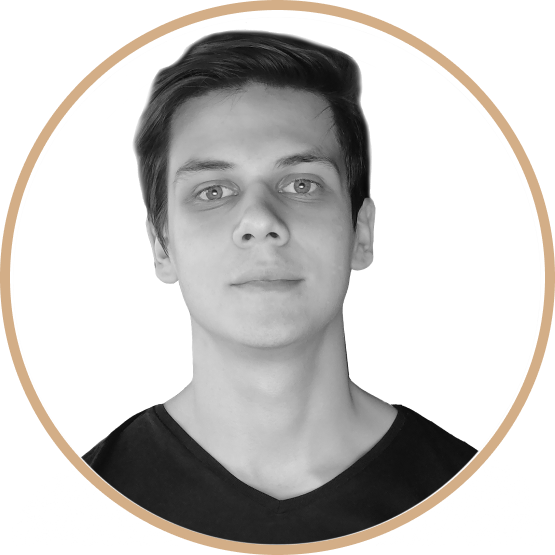
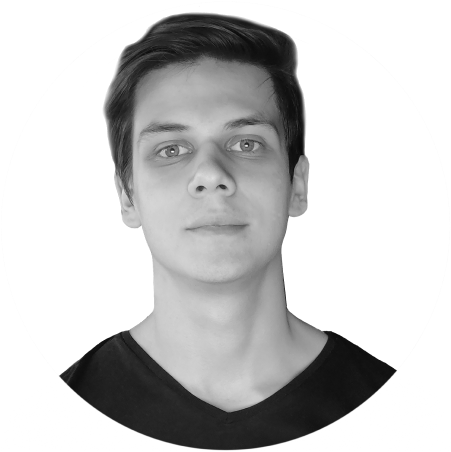
Rm extra images

diff --git a/index.html b/index.html
@@ -17,15 +17,15 @@
 <body>
 
     <nav class="nav flex-container-center align-center">
-        <a href="#about"><img src="img/icons/home.png" alt="about"></a>
-        <a href="#tech"><img src="img/icons/skill.png" alt="tech"></a>
-        <a href="#experience"><img src="img/icons/work.png" alt="work"></a>
-        <a href="#education"><img src="img/icons/book.png" alt="education"></a>
-        <a href="#html"><img src="img/icons/html.png" alt="html" id="html-img"></a>
-        <a href="#js"><img src="img/icons/js.png" alt="js" id="js-img"></a>
-        <a href="#react"><img src="img/icons/react.png" alt="react" id="react-img"></a>
-        <a href="#animation"><img src="img/icons/animation.png" alt="animation" id="animation-img"></a>
-        <a href="#certificate"><img src="img/icons/certificate.png" alt="animation"></a>
+        <a href="#about"><img src="img/icons/nav/home.png" alt="about"></a>
+        <a href="#tech"><img src="img/icons/nav/skill.png" alt="tech"></a>
+        <a href="#experience"><img src="img/icons/nav/work.png" alt="work"></a>
+        <a href="#education"><img src="img/icons/nav/book.png" alt="education"></a>
+        <a href="#html"><img src="img/icons/nav/html.png" alt="html" id="html-img"></a>
+        <a href="#js"><img src="img/icons/nav/js.png" alt="js" id="js-img"></a>
+        <a href="#react"><img src="img/icons/nav/react.png" alt="react" id="react-img"></a>
+        <a href="#animation"><img src="img/icons/nav/animation.png" alt="animation" id="animation-img"></a>
+        <a href="#certificate"><img src="img/icons/nav/certificate.png" alt="animation"></a>
     </nav>
     <div class="nav-burger flex-container">
         <div class="burger-line burger-line1"></div>
@@ -37,7 +37,7 @@
         <div class="grid-container about-wrap">
             <div></div>
             <div class="about-center">
-                <img src="img/avatar/avatar1.png" alt="avatar" class="avatar-img">
+                <img src="img/avatar/avatar.png" alt="avatar" class="avatar-img">
                 <h1 class="name-phone text-lg">Олег Куць</h1>
                 <p class="about-headline text-sm">
                     Junior Frontend Developer с 1+ годом опыта веб-разработки. Основной акцент работы сосредоточен на
@@ -46,12 +46,13 @@
                 </p>
 
                 <div class="social-icons" id="social-icons-mobile">
-                    <a href="tg://resolve?domain=oleoot"><img src="img/icons/telegram.svg" alt="telegram"></a>
-                    <a href="https://github.com/oleoot" target="_blank"><img src="img/icons/github.svg"
+                    <a href="tg://resolve?domain=oleoot"><img src="img/icons/icons-black/telegram.svg"
+                            alt="telegram"></a>
+                    <a href="https://github.com/oleoot" target="_blank"><img src="img/icons/icons-black/github.svg"
                             alt="github"></a>
-                    <a href="https://www.linkedin.com/in/oleg-kouts/" target="_blank"><img src="img/icons/linkedin.svg"
-                            alt="linkedin"></a>
-                    <a href="mailto:oleg.kouts@gmail.com"><img src="img/icons/mail.svg" alt="mail"></a>
+                    <a href="https://www.linkedin.com/in/oleg-kouts/" target="_blank"><img
+                            src="img/icons/icons-black/linkedin.svg" alt="linkedin"></a>
+                    <a href="mailto:oleg.kouts@gmail.com"><img src="img/icons/icons-black/mail.svg" alt="mail"></a>
                 </div>
                 <a href="cv-file/Kuts_Oleg_CV.pdf" download class="btn flex-container-center align-center">Скачать
                     CV</a>
@@ -60,13 +61,11 @@
                 <a href="tg://resolve?domain=oleoot"><img src="img/icons/icons-gold/telegram.svg" alt="telegram"></a>
                 <a href="https://github.com/oleoot" target="_blank"><img src="img/icons/icons-gold/github.svg"
                         alt="github"></a>
-                <a href="https://www.linkedin.com/in/oleg-kouts/" target="_blank"><img src="img/icons/linkedin.svg"
-                        alt="linkedin"></a>
-                <a href="mailto:oleg.kouts@gmail.com"><img src="img/icons/mail.svg" alt="mail"></a>
+                <a href="https://www.linkedin.com/in/oleg-kouts/" target="_blank"><img
+                        src="img/icons/icons-black/linkedin.svg" alt="linkedin"></a>
+                <a href="mailto:oleg.kouts@gmail.com"><img src="img/icons/icons-black/mail.svg" alt="mail"></a>
             </div>
         </div>
-        <!-- <a href="cv-file/Kuts_Oleg_CV.pdf" download class="btn flex-container-center align-center">Скачать
-            CV</a> -->
     </header>
 
     <section id="tech">

diff --git a/css/custom-cursor.css b/css/custom-cursor.css
@@ -11,8 +11,6 @@
     user-select: none;
     pointer-events: none;
     }
-
-
     .cursor:before{
     content: "";
     width: 100%;
@@ -28,8 +26,6 @@
     border-radius: 100%;
     opacity: 0;
     }
-
-
     .cursor.active{
     opacity: 1;
     transform: scale(12);
@@ -49,7 +45,6 @@
     pointer-events: none;
     transform: translate(4px, 4px);
     }
-
     .cursor-follower.active{
      opacity: 0.3s;
      transform: scale(0);
